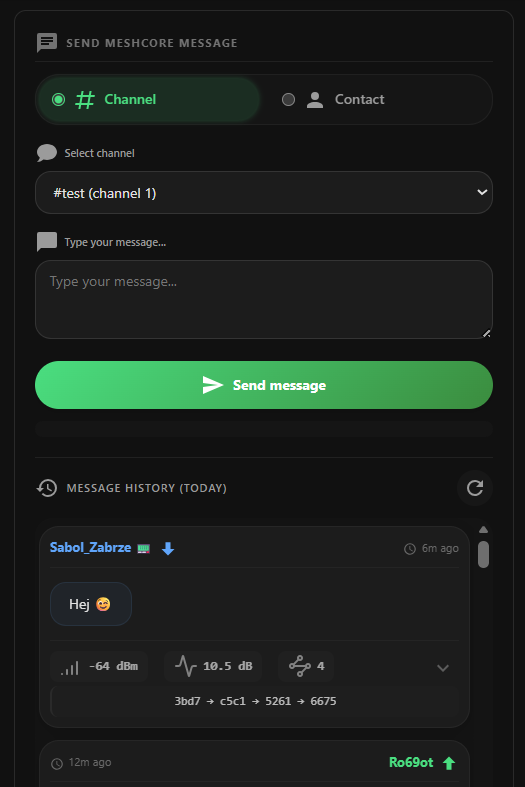
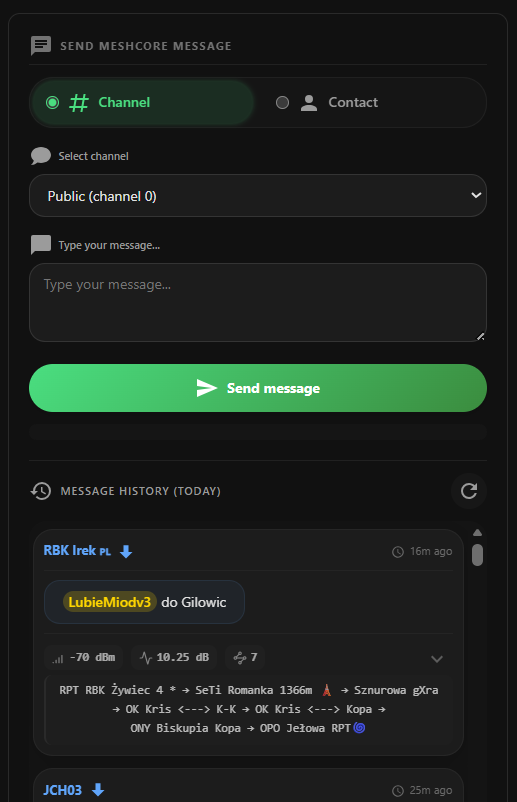
Update README

diff --git a/README.md b/README.md
@@ -78,6 +78,7 @@ The Message Card now displays full transmission metrics for received messages:
 * **RSSI, SNR, and hop count** shown as a compact metrics bar below each message
 * **Expandable path section** – click the metrics bar to reveal the complete transmission route (e.g., `a1b2 → c3d4 → e5f6 → ...`)
 * **Smart path formatting** – automatically splits hex paths into readable node hops, with special handling for FLOOD and FOLD route types
+* **Repeater name mapping** – optionally replaces hex identifiers with human-readable names from your discovered contacts. Unknown nodes are shown as "Unknown (hex)". Enabled by default, can be toggled via `use_repeater_names` config option.
 * **SVG icons** for signal strength, activity, and waypoints – visually clean and theme-friendly
 
 ### 💬 Bubble-Style Message Layout
@@ -441,8 +442,22 @@ views:
       - type: custom:meshcore-message-card
         default_channel: 0
 ```
+### Route Visualization with Repeater Names
+
+You can replace the raw hexadecimal identifiers in the transmission path with human-readable repeater names:
+
+- **use_repeater_names** (optional, default: `true`) – when enabled, the path will display discovered contact names instead of hex values. Unrecognized nodes are shown as "Unknown (hex)".
+
+```yaml
+# Enable/disable repeater names in path
+type: custom:meshcore-message-card
+use_repeater_names: true
+```
+
+When enabled, a path like 08d1 → f8db → 1515 → 01e6 → 5261 → 6675 will be displayed as RPT RBK Żywiec 4* → RPT RBK Żywiec 2+ → Szyndzielnia RPT 🚡 → Kapliczka → ONY Biskupia Kopa → OPO Jełowa RPT🌀
 
 ---
+
 
 ## custom:meshcore-contact-card
 